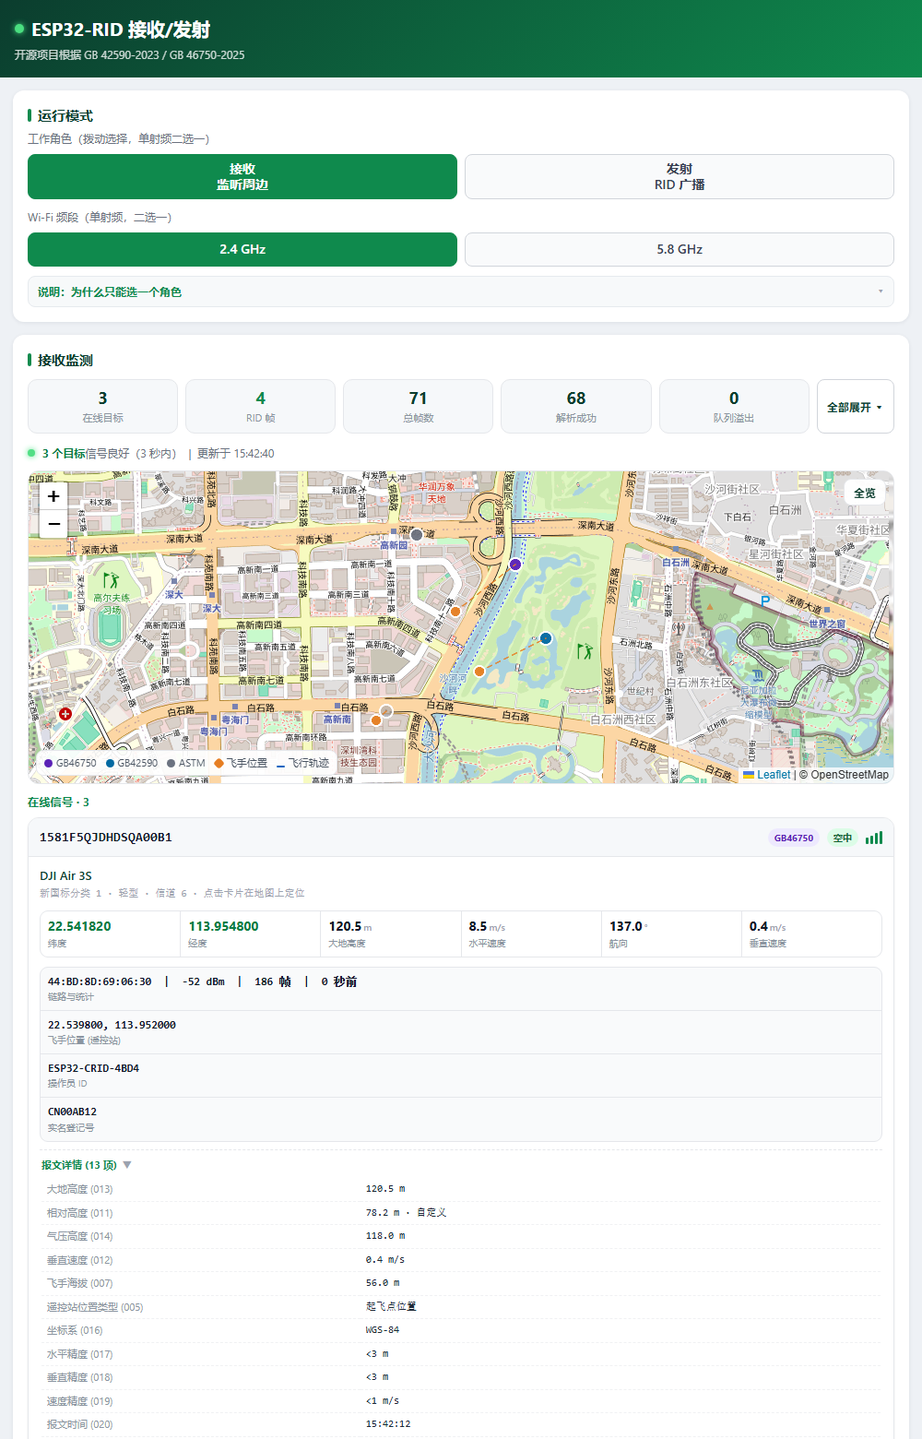
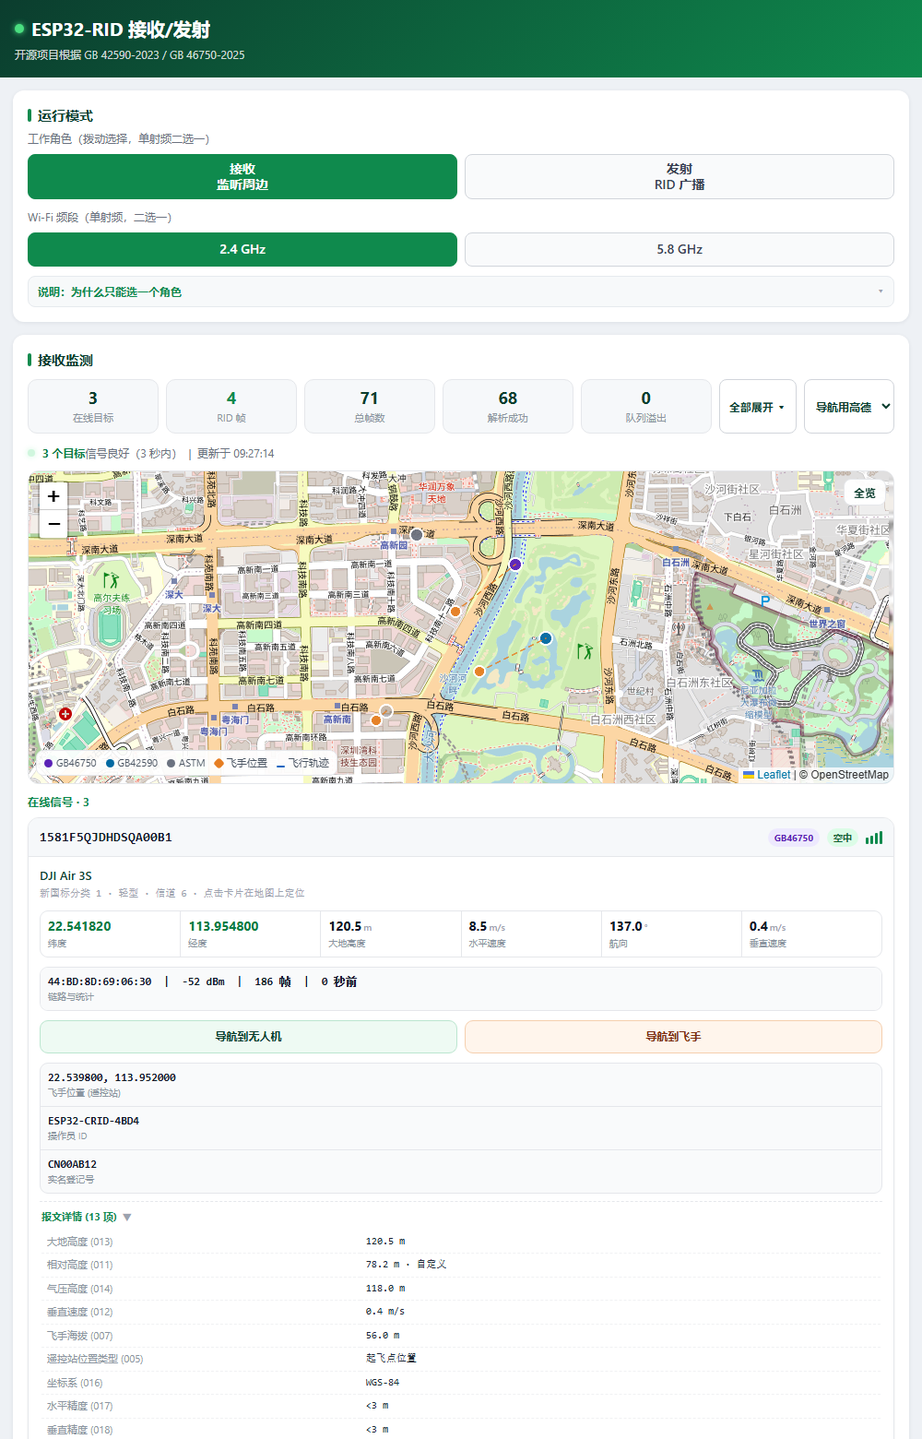
feat(web): 接收卡片增加「导航到无人机 / 飞手」，一键调起手机地图
- 每张接收卡片按目标实际坐标生成导航按钮：无人机位置、飞手（遥控站）
  位置各一个；坐标为 0,0 或未上报时不显示对应按钮
- 面板顶部新增「导航用高德 / 百度」下拉，选择存 localStorage，默认高德
- 高德走 uri.amap.com/navigation（to=经度,纬度,名称，mode=car，callnative=1），
  百度走 api.map.baidu.com/mobile/direction（destination=latlng:纬度,经度，
  mode=driving），两者都显式声明坐标类型为 wgs84
- 不做本地坐标偏移：RID 广播的是 GNSS 原始 WGS-84，由地图端纠偏，
  避免自实现 GCJ-02 算法引入误差
- 导航按钮点击时阻断冒泡，否则会连带触发卡片自身的地图聚焦
- 卡片结构顺带修正：身份/位置区块（飞手位置、操作员 ID、实名登记号）
  为空时不再渲染空边框块

工具与验证
- build.ps1：idf.py 也放开 stderr（Kconfig NOTE 等会被 Stop 当成终止错误，
  表现为「构建实际成功却提前退出」），成败统一看退出码
- extract_bin_page.py 增加导航按钮/地图选择断言
- jsdom_test 增加两种地图 URL 生成、按钮点击、0,0 拒绝的断言
- rx_render_test 增加「有飞手坐标 2 个按钮 / 无则 1 个」断言
- 重制 docs/webui_rx.png

diff --git a/tools/_page.html b/tools/_page.html
@@ -128,6 +128,16 @@ font-variant-numeric:tabular-nums;line-height:1.35}
 .kv .wide{grid-column:span 3;background:#f9fafb}
 .kv .wide b{font-family:ui-monospace,Menlo,Consolas,monospace;font-size:12px;word-break:break-all}
 .kv .hl b{color:#0a7d43}
+.navrow{display:flex;gap:8px;margin-top:10px;flex-wrap:wrap}
+.navbtn{flex:1;min-width:118px;padding:9px 10px;font-size:12px;font-weight:700;
+font-family:inherit;color:#0b3d2e;background:#eefaf3;border:1px solid #bbe6cf;
+border-radius:9px;cursor:pointer;line-height:1.3}
+.navbtn:active{transform:scale(.98);background:#dff5e9}
+.navbtn[data-nav=op]{color:#7c2d12;background:#fff5ec;border-color:#f5cfae}
+.navbtn[data-nav=op]:active{background:#ffe9d5}
+.navsel{flex:none;width:auto;margin-top:0;background:#fff;border:1px solid #d1d5db;
+border-radius:8px;padding:6px 8px;font-size:12px;font-weight:600;color:#0b3d2e;
+font-family:inherit}
 .fbtn{flex:none;background:#fff;border:1px solid #d1d5db;border-radius:8px;
 padding:6px 10px;font-size:12px;color:#0b3d2e;font-weight:600;cursor:pointer}
 .fbtn:active{transform:scale(.97)}
@@ -302,6 +312,8 @@ button.danger:hover{background:#fdf1f0;filter:none}
 <div class='chip'><b id='s_ok'>0</b><span>解析成功</span></div>
 <div class='chip warn' id='s_ovfbox'><b id='s_ovf'>0</b><span>队列溢出</span></div>
 <button class='fbtn' id='foldall' type='button'>全部展开 ▾</button>
+<select class='navsel' id='navmap' title='卡片内导航按钮跳转的地图'>
+<option value='amap'>导航用高德</option><option value='bd'>导航用百度</option></select>
 </div>
 <div class='rxbanner'><span class='dot live'></span>
 <span id='rxstate'>正在监听…</span></div>
@@ -321,7 +333,10 @@ button.danger:hover{background:#fdf1f0;filter:none}
 <details class='tip'><summary>说明：接收列表与离线规则</summary><div>
 监听信道跟随上方「Wi-Fi 信道」设置（保存后生效），只能收到与本机同信道的广播。
 卡片按信号强度排序，<b>绿色标题</b>为机型/描述，<b>格内小字</b>为字段名；
-10 秒无信号标记为已离线（灰度显示，保留 30 分钟），列表 2 秒刷新。</div></details>
+10 秒无信号标记为已离线（灰度显示，保留 30 分钟），列表 2 秒刷新。
+<br>卡片内「导航到无人机 / 导航到飞手」按钮会带着该点坐标跳转到手机地图 App
+（面板顶部「导航用高德 / 百度」可切换），坐标按 WGS-84 原始值传递，由地图自行纠偏；
+手机需能访问互联网，未装地图 App 时会打开对应的网页版。</div></details>
 </div>
 <div class='actions span2'>
 <button onclick='save()'>保存并应用</button>
@@ -561,6 +576,30 @@ function cell(v,unit,label,cls){
 return `<div class="${cls||''}"><b>${v}${unit?`<small>${unit}</small>`:''}</b><span>${label}</span></div>`;}
 function wideCell(v,label){
 return `<div class="wide"><b>${v}</b><span>${label}</span></div>`;}
+function posOk(la,lo){la=Number(la);lo=Number(lo);
+return isFinite(la)&&isFinite(lo)&&Math.abs(la)<=90&&Math.abs(lo)<=180
+&&!(Math.abs(la)<1e-6&&Math.abs(lo)<1e-6);}
+function navProvider(){const s=q('navmap');try{
+const v=s&&s.value?s.value:(localStorage.getItem('crid_navmap')||'amap');
+return v==='bd'?'bd':'amap';}catch(e){return (s&&s.value==='bd')?'bd':'amap';}}
+function navUrl(kind,la,lo,nm){
+la=Number(la);lo=Number(lo);
+const tag=(kind==='op')?'飞手':'无人机';
+const name=((nm?nm+' ':'')+tag).slice(0,40);
+if(navProvider()==='bd'){
+return 'https://api.map.baidu.com/mobile/direction?destination=latlng:'
++la.toFixed(6)+','+lo.toFixed(6)+'|name:'+encodeURIComponent(name)
++'&mode=driving&output=html&coord_type=wgs84&src=webapp.crid.nav';}
+return 'https://uri.amap.com/navigation?to='+lo.toFixed(6)+','+la.toFixed(6)+','
++encodeURIComponent(name)+'&mode=car&policy=1&coordinate=wgs84&src=crid&callnative=1';}
+function navTo(kind,la,lo,nm){
+if(!posOk(la,lo)){msg('该目标暂未上报有效坐标，无法导航',false);return;}
+try{location.href=navUrl(kind,la,lo,nm);}catch(e){msg('无法唤起地图：'+e,false);}}
+function navBtn(kind,la,lo,nm){
+const tag=(kind==='op')?'飞手':'无人机';
+return '<button type="button" class="navbtn" data-nav="'+kind+'"'
++' data-la="'+Number(la).toFixed(6)+'" data-lo="'+Number(lo).toFixed(6)+'"'
++' data-nm="'+esc(nm||'')+'">导航到'+tag+'</button>';}
 const OPT=['实时位置','起飞点位置','自定义位置','未知'];
 const AGLT=['起飞点','地面','自定义','实时 GNSS'];
 const HACC=['未知','<18.5 km','<7.4 km','<3.7 km','<1.85 km','<926 m','<556 m','<185 m',
@@ -640,16 +679,27 @@ h+=`<div class="kv">`
 +cell(f1(t.speed_vertical),'m/s','垂直速度')
 +`</div><div class="kv">`
 +wideCell(`${esc(t.mac)} &nbsp;|&nbsp; ${t.rssi} dBm &nbsp;|&nbsp; ${t.msg_count} 帧 &nbsp;|&nbsp; ${ageTxt(t.age_ms)}`,'链路与统计');
+let nb='';
+if(posOk(t.latitude,t.longitude))nb+=navBtn('drone',t.latitude,t.longitude,t.uas_id);
+if(t.has_op_loc&&posOk(t.op_latitude,t.op_longitude))
+nb+=navBtn('op',t.op_latitude,t.op_longitude,t.uas_id);
+h+='</div>';
+if(nb)h+='<div class="navrow">'+nb+'</div>';
 const idt=[];
 if(t.has_op_loc)idt.push([f6(t.op_latitude)+', '+f6(t.op_longitude),'飞手位置 (遥控站)']);
 if(t.operator_id)idt.push([esc(t.operator_id),'操作员 ID']);
 if(t.realname_id)idt.push([esc(t.realname_id),'实名登记号']);
+if(idt.length){h+='<div class="kv">';
 idt.forEach(function(x){h+=wideCell(x[0],x[1]);});
-h+='</div>'+dtlHtml(t)+'</div>';
+h+='</div>';}
+h+=dtlHtml(t)+'</div>';
 el.innerHTML=h;
 const dh=el.querySelector('.dtl-h');
 if(dh){dh.onclick=function(ev){ev.stopPropagation();
 el.classList.toggle('open');s_fold[t.mac]=el.classList.contains('open');updFoldBtn();};}
+Array.prototype.forEach.call(el.querySelectorAll('.navbtn'),function(b){
+b.onclick=function(ev){ev.stopPropagation();
+navTo(b.dataset.nav,b.dataset.la,b.dataset.lo,b.dataset.nm);};});
 el.onclick=function(){try{if(window.RXMAP)RXMAP.focus(t.mac);}catch(e){}};
 return el;}
 
@@ -688,6 +738,9 @@ if(s_fold[c.dataset.mac])c.classList.add('open');});
 updFoldBtn();
 }catch(e){q('rxstate').textContent='轮询失败：'+e;}}
 q('foldall').onclick=foldAll;
+try{const nmSel=q('navmap');if(nmSel){
+const sv=localStorage.getItem('crid_navmap');if(sv==='bd'||sv==='amap')nmSel.value=sv;
+nmSel.onchange=function(){try{localStorage.setItem('crid_navmap',nmSel.value);}catch(e){}};}}catch(e){}
 let gbase=[0,0],gpick=null;
 function dotIcon(c){return L.divIcon({className:'',
 html:'<div style="width:14px;height:14px;border-radius:50%;background:'+c+

diff --git a/tools/_page.js b/tools/_page.js
@@ -227,6 +227,30 @@ function cell(v,unit,label,cls){
 return `<div class="${cls||''}"><b>${v}${unit?`<small>${unit}</small>`:''}</b><span>${label}</span></div>`;}
 function wideCell(v,label){
 return `<div class="wide"><b>${v}</b><span>${label}</span></div>`;}
+function posOk(la,lo){la=Number(la);lo=Number(lo);
+return isFinite(la)&&isFinite(lo)&&Math.abs(la)<=90&&Math.abs(lo)<=180
+&&!(Math.abs(la)<1e-6&&Math.abs(lo)<1e-6);}
+function navProvider(){const s=q('navmap');try{
+const v=s&&s.value?s.value:(localStorage.getItem('crid_navmap')||'amap');
+return v==='bd'?'bd':'amap';}catch(e){return (s&&s.value==='bd')?'bd':'amap';}}
+function navUrl(kind,la,lo,nm){
+la=Number(la);lo=Number(lo);
+const tag=(kind==='op')?'飞手':'无人机';
+const name=((nm?nm+' ':'')+tag).slice(0,40);
+if(navProvider()==='bd'){
+return 'https://api.map.baidu.com/mobile/direction?destination=latlng:'
++la.toFixed(6)+','+lo.toFixed(6)+'|name:'+encodeURIComponent(name)
++'&mode=driving&output=html&coord_type=wgs84&src=webapp.crid.nav';}
+return 'https://uri.amap.com/navigation?to='+lo.toFixed(6)+','+la.toFixed(6)+','
++encodeURIComponent(name)+'&mode=car&policy=1&coordinate=wgs84&src=crid&callnative=1';}
+function navTo(kind,la,lo,nm){
+if(!posOk(la,lo)){msg('该目标暂未上报有效坐标，无法导航',false);return;}
+try{location.href=navUrl(kind,la,lo,nm);}catch(e){msg('无法唤起地图：'+e,false);}}
+function navBtn(kind,la,lo,nm){
+const tag=(kind==='op')?'飞手':'无人机';
+return '<button type="button" class="navbtn" data-nav="'+kind+'"'
++' data-la="'+Number(la).toFixed(6)+'" data-lo="'+Number(lo).toFixed(6)+'"'
++' data-nm="'+esc(nm||'')+'">导航到'+tag+'</button>';}
 const OPT=['实时位置','起飞点位置','自定义位置','未知'];
 const AGLT=['起飞点','地面','自定义','实时 GNSS'];
 const HACC=['未知','<18.5 km','<7.4 km','<3.7 km','<1.85 km','<926 m','<556 m','<185 m',
@@ -306,16 +330,27 @@ h+=`<div class="kv">`
 +cell(f1(t.speed_vertical),'m/s','垂直速度')
 +`</div><div class="kv">`
 +wideCell(`${esc(t.mac)} &nbsp;|&nbsp; ${t.rssi} dBm &nbsp;|&nbsp; ${t.msg_count} 帧 &nbsp;|&nbsp; ${ageTxt(t.age_ms)}`,'链路与统计');
+let nb='';
+if(posOk(t.latitude,t.longitude))nb+=navBtn('drone',t.latitude,t.longitude,t.uas_id);
+if(t.has_op_loc&&posOk(t.op_latitude,t.op_longitude))
+nb+=navBtn('op',t.op_latitude,t.op_longitude,t.uas_id);
+h+='</div>';
+if(nb)h+='<div class="navrow">'+nb+'</div>';
 const idt=[];
 if(t.has_op_loc)idt.push([f6(t.op_latitude)+', '+f6(t.op_longitude),'飞手位置 (遥控站)']);
 if(t.operator_id)idt.push([esc(t.operator_id),'操作员 ID']);
 if(t.realname_id)idt.push([esc(t.realname_id),'实名登记号']);
+if(idt.length){h+='<div class="kv">';
 idt.forEach(function(x){h+=wideCell(x[0],x[1]);});
-h+='</div>'+dtlHtml(t)+'</div>';
+h+='</div>';}
+h+=dtlHtml(t)+'</div>';
 el.innerHTML=h;
 const dh=el.querySelector('.dtl-h');
 if(dh){dh.onclick=function(ev){ev.stopPropagation();
 el.classList.toggle('open');s_fold[t.mac]=el.classList.contains('open');updFoldBtn();};}
+Array.prototype.forEach.call(el.querySelectorAll('.navbtn'),function(b){
+b.onclick=function(ev){ev.stopPropagation();
+navTo(b.dataset.nav,b.dataset.la,b.dataset.lo,b.dataset.nm);};});
 el.onclick=function(){try{if(window.RXMAP)RXMAP.focus(t.mac);}catch(e){}};
 return el;}
 
@@ -354,6 +389,9 @@ if(s_fold[c.dataset.mac])c.classList.add('open');});
 updFoldBtn();
 }catch(e){q('rxstate').textContent='轮询失败：'+e;}}
 q('foldall').onclick=foldAll;
+try{const nmSel=q('navmap');if(nmSel){
+const sv=localStorage.getItem('crid_navmap');if(sv==='bd'||sv==='amap')nmSel.value=sv;
+nmSel.onchange=function(){try{localStorage.setItem('crid_navmap',nmSel.value);}catch(e){}};}}catch(e){}
 let gbase=[0,0],gpick=null;
 function dotIcon(c){return L.divIcon({className:'',
 html:'<div style="width:14px;height:14px;border-radius:50%;background:'+c+

diff --git a/tools/jsdom_test.js b/tools/jsdom_test.js
@@ -104,6 +104,43 @@ const sleep = (ms) => new Promise(r => setTimeout(r, ms));
     if (txCards !== 'none') console.log('ROLE SWITCH FAIL (tx cards still visible)');
   } catch (e) { console.log('rx role THREW:', e.message); }
 
+  // 导航按钮：按目标实际坐标给出「导航到无人机 / 导航到飞手」，跳手机地图 App
+  try {
+    const btns = w.document.querySelectorAll('#rxlist .navbtn');
+    const kinds = Array.prototype.map.call(btns, b => b.dataset.nav);
+    console.log('nav buttons:', btns.length, JSON.stringify(kinds), '(expect 2: drone,op)');
+    if (btns.length !== 2 || kinds.join(',') !== 'drone,op') console.log('NAV BTN FAIL');
+
+    // 默认高德：to=经度,纬度,名称，并声明坐标为 wgs84
+    const ua = w.navUrl('drone', 22.54, 114.05, 'TEST');
+    console.log('amap url:', ua);
+    if (!/^https:\/\/uri\.amap\.com\/navigation\?to=114\.050000,22\.540000,/.test(ua)
+        || !/coordinate=wgs84/.test(ua) || !/callnative=1/.test(ua)) console.log('NAV AMAP URL FAIL');
+
+    // 切百度：destination=latlng:纬度,经度，coord_type=wgs84
+    const sel = w.document.getElementById('navmap');
+    sel.value = 'bd';
+    sel.dispatchEvent(new w.Event('change', { bubbles: true }));
+    const ub = w.navUrl('op', 22.53, 114.04, 'TEST');
+    console.log('baidu url:', ub);
+    if (!/api\.map\.baidu\.com/.test(ub) || !/latlng:22\.530000,114\.040000/.test(ub)
+        || !/coord_type=wgs84/.test(ub)) console.log('NAV BAIDU URL FAIL');
+    sel.value = 'amap';
+    sel.dispatchEvent(new w.Event('change', { bubbles: true }));
+
+    // 点击按钮只调 navTo，不得冒泡触发卡片的地图聚焦
+    let hit = null;
+    const orig = w.navTo;
+    w.navTo = (k, la, lo, nm) => { hit = [k, la, lo, nm]; };
+    btns[0].onclick({ stopPropagation() {}, target: btns[0] });
+    console.log('nav click ->', JSON.stringify(hit));
+    if (!hit || hit[0] !== 'drone') console.log('NAV CLICK FAIL');
+    w.navTo = orig;
+
+    // 未上报坐标（0,0）必须拒绝导航
+    if (w.posOk(0, 0) || !w.posOk(22.54, 114.05)) console.log('NAV POSOK FAIL');
+  } catch (e) { console.log('nav check THREW:', e.message); }
+
   // 模拟：切到 5.8G 频段（单射频互斥，信道应自动锁到 149 并禁用输入）
   try {
     const b5 = w.document.querySelector('input[name=band][value="1"]');

diff --git a/tools/rx_render_test.js b/tools/rx_render_test.js
@@ -106,6 +106,14 @@ api.pollRx().then(() => {
   A('detail acc/ts : ' + (c1._html.includes('水平精度 (017)') && c1._html.includes('<3 m')
     && c1._html.includes('报文时间 (020)') && c1._html.includes('飞手海拔 (007)') ? 'OK' : 'FAIL'));
   A('no op on card2 : ' + (!store.rxlist.children[2]._html.includes('飞手位置') ? 'OK' : 'FAIL'));
+  // ---- 导航按钮：有飞手坐标给 2 个，没有则只给「导航到无人机」 ----
+  const navN = (h) => (h.match(/class="navbtn"/g) || []).length;
+  A('nav btns card1 : ' + (navN(c1._html) === 2 && c1._html.includes('导航到飞手')
+    && c1._html.includes('data-la="22.530001"') ? 'OK' : 'FAIL')
+    + ' (' + navN(c1._html) + ' 个)');
+  A('nav btns card2 : ' + (navN(store.rxlist.children[2]._html) === 1
+    && !store.rxlist.children[2]._html.includes('导航到飞手') ? 'OK' : 'FAIL')
+    + ' (' + navN(store.rxlist.children[2]._html) + ' 个)');
   A('online no gray : ' + (!store.rxlist.children[1].className.includes('off') ? 'OK' : 'FAIL'));
   // ---- 目标 2 转为离线：应有「已离线」分区 + 灰度卡片 ----
   FAKE.tracks[1].active = false;

diff --git a/main/crid_web.c b/main/crid_web.c
@@ -166,6 +166,17 @@ static const char PAGE_HTML[] =
 ".kv .wide{grid-column:span 3;background:#f9fafb}"
 ".kv .wide b{font-family:ui-monospace,Menlo,Consolas,monospace;font-size:12px;word-break:break-all}"
 ".kv .hl b{color:#0a7d43}"
+// ---- 导航按钮：跳转手机地图 App（高德/百度），点卡片自身仍做地图聚焦 ----
+".navrow{display:flex;gap:8px;margin-top:10px;flex-wrap:wrap}"
+".navbtn{flex:1;min-width:118px;padding:9px 10px;font-size:12px;font-weight:700;"
+"font-family:inherit;color:#0b3d2e;background:#eefaf3;border:1px solid #bbe6cf;"
+"border-radius:9px;cursor:pointer;line-height:1.3}"
+".navbtn:active{transform:scale(.98);background:#dff5e9}"
+".navbtn[data-nav=op]{color:#7c2d12;background:#fff5ec;border-color:#f5cfae}"
+".navbtn[data-nav=op]:active{background:#ffe9d5}"
+".navsel{flex:none;width:auto;margin-top:0;background:#fff;border:1px solid #d1d5db;"
+"border-radius:8px;padding:6px 8px;font-size:12px;font-weight:600;color:#0b3d2e;"
+"font-family:inherit}"
 // ---- 报文详情折叠区与一键展开/折叠按钮 ----
 ".fbtn{flex:none;background:#fff;border:1px solid #d1d5db;border-radius:8px;"
 "padding:6px 10px;font-size:12px;color:#0b3d2e;font-weight:600;cursor:pointer}"
@@ -345,6 +356,9 @@ static const char PAGE_HTML[] =
 "<div class='chip'><b id='s_ok'>0</b><span>解析成功</span></div>"
 "<div class='chip warn' id='s_ovfbox'><b id='s_ovf'>0</b><span>队列溢出</span></div>"
 "<button class='fbtn' id='foldall' type='button'>全部展开 ▾</button>"
+// 导航地图选择：卡片内导航按钮按此跳转，选择存 localStorage，默认高德
+"<select class='navsel' id='navmap' title='卡片内导航按钮跳转的地图'>"
+"<option value='amap'>导航用高德</option><option value='bd'>导航用百度</option></select>"
 "</div>"
 "<div class='rxbanner'><span class='dot live'></span>"
 "<span id='rxstate'>正在监听…</span></div>"
@@ -366,7 +380,10 @@ static const char PAGE_HTML[] =
 "<details class='tip'><summary>说明：接收列表与离线规则</summary><div>"
 "监听信道跟随上方「Wi-Fi 信道」设置（保存后生效），只能收到与本机同信道的广播。"
 "卡片按信号强度排序，<b>绿色标题</b>为机型/描述，<b>格内小字</b>为字段名；"
-"10 秒无信号标记为已离线（灰度显示，保留 30 分钟），列表 2 秒刷新。</div></details>"
+"10 秒无信号标记为已离线（灰度显示，保留 30 分钟），列表 2 秒刷新。"
+"<br>卡片内「导航到无人机 / 导航到飞手」按钮会带着该点坐标跳转到手机地图 App"
+"（面板顶部「导航用高德 / 百度」可切换），坐标按 WGS-84 原始值传递，由地图自行纠偏；"
+"手机需能访问互联网，未装地图 App 时会打开对应的网页版。</div></details>"
 "</div>"
 "<div class='actions span2'>"
 "<button onclick='save()'>保存并应用</button>"
@@ -629,6 +646,33 @@ static const char PAGE_HTML[] =
 "return `<div class=\"${cls||''}\"><b>${v}${unit?`<small>${unit}</small>`:''}</b><span>${label}</span></div>`;}"
 "function wideCell(v,label){"
 "return `<div class=\"wide\"><b>${v}</b><span>${label}</span></div>`;}"
+// ---- 导航到目标位置：调起手机地图 App（高德 / 百度），坐标按 WGS-84 原样传递 ----
+// RID 广播的经纬度是 GNSS 原始坐标（WGS-84）。高德 coordinate=wgs84、百度 coord_type=wgs84
+// 都由地图端自行纠偏到 GCJ-02，因此页面不做坐标转换，避免自实现偏移算法引入误差。
+"function posOk(la,lo){la=Number(la);lo=Number(lo);"
+"return isFinite(la)&&isFinite(lo)&&Math.abs(la)<=90&&Math.abs(lo)<=180"
+"&&!(Math.abs(la)<1e-6&&Math.abs(lo)<1e-6);}"   // 0,0 视为未上报
+"function navProvider(){const s=q('navmap');try{"
+"const v=s&&s.value?s.value:(localStorage.getItem('crid_navmap')||'amap');"
+"return v==='bd'?'bd':'amap';}catch(e){return (s&&s.value==='bd')?'bd':'amap';}}"
+"function navUrl(kind,la,lo,nm){"
+"la=Number(la);lo=Number(lo);"
+"const tag=(kind==='op')?'飞手':'无人机';"
+"const name=((nm?nm+' ':'')+tag).slice(0,40);"
+"if(navProvider()==='bd'){"
+"return 'https://api.map.baidu.com/mobile/direction?destination=latlng:'"
+"+la.toFixed(6)+','+lo.toFixed(6)+'|name:'+encodeURIComponent(name)"
+"+'&mode=driving&output=html&coord_type=wgs84&src=webapp.crid.nav';}"
+"return 'https://uri.amap.com/navigation?to='+lo.toFixed(6)+','+la.toFixed(6)+','"
+"+encodeURIComponent(name)+'&mode=car&policy=1&coordinate=wgs84&src=crid&callnative=1';}"
+"function navTo(kind,la,lo,nm){"
+"if(!posOk(la,lo)){msg('该目标暂未上报有效坐标，无法导航',false);return;}"
+"try{location.href=navUrl(kind,la,lo,nm);}catch(e){msg('无法唤起地图：'+e,false);}}"
+"function navBtn(kind,la,lo,nm){"
+"const tag=(kind==='op')?'飞手':'无人机';"
+"return '<button type=\"button\" class=\"navbtn\" data-nav=\"'+kind+'\"'"
+"+' data-la=\"'+Number(la).toFixed(6)+'\" data-lo=\"'+Number(lo).toFixed(6)+'\"'"
+"+' data-nm=\"'+esc(nm||'')+'\">导航到'+tag+'</button>';}"
 // ---- 报文详情折叠：枚举值文本表（国标与 ASTM 兼容枚举） ----
 "const OPT=['实时位置','起飞点位置','自定义位置','未知'];"
 "const AGLT=['起飞点','地面','自定义','实时 GNSS'];"
@@ -712,17 +756,30 @@ static const char PAGE_HTML[] =
 "+cell(f1(t.speed_vertical),'m/s','垂直速度')"
 "+`</div><div class=\"kv\">`"
 "+wideCell(`${esc(t.mac)} &nbsp;|&nbsp; ${t.rssi} dBm &nbsp;|&nbsp; ${t.msg_count} 帧 &nbsp;|&nbsp; ${ageTxt(t.age_ms)}`,'链路与统计');"
+// 导航按钮：分别导航到无人机当前位置 / 飞手（遥控站）位置，无有效坐标则不显示
+"let nb='';"
+"if(posOk(t.latitude,t.longitude))nb+=navBtn('drone',t.latitude,t.longitude,t.uas_id);"
+"if(t.has_op_loc&&posOk(t.op_latitude,t.op_longitude))"
+"nb+=navBtn('op',t.op_latitude,t.op_longitude,t.uas_id);"
+"h+='</div>';"                                   // 关闭「链路与统计」区块
+"if(nb)h+='<div class=\"navrow\">'+nb+'</div>';"
 "const idt=[];"
 "if(t.has_op_loc)idt.push([f6(t.op_latitude)+', '+f6(t.op_longitude),'飞手位置 (遥控站)']);"
 "if(t.operator_id)idt.push([esc(t.operator_id),'操作员 ID']);"
 "if(t.realname_id)idt.push([esc(t.realname_id),'实名登记号']);"
+"if(idt.length){h+='<div class=\"kv\">';"          // 身份/位置区块：无内容则整块不渲染
 "idt.forEach(function(x){h+=wideCell(x[0],x[1]);});"
-"h+='</div>'+dtlHtml(t)+'</div>';"
+"h+='</div>';}"
+"h+=dtlHtml(t)+'</div>';"
 "el.innerHTML=h;"
 // 折叠头点击：切换展开态（阻断冒泡，不触发卡片本身的地图聚焦）
 "const dh=el.querySelector('.dtl-h');"
 "if(dh){dh.onclick=function(ev){ev.stopPropagation();"
 "el.classList.toggle('open');s_fold[t.mac]=el.classList.contains('open');updFoldBtn();};}"
+// 导航按钮：必须阻断冒泡，否则会连带触发下面卡片的地图聚焦
+"Array.prototype.forEach.call(el.querySelectorAll('.navbtn'),function(b){"
+"b.onclick=function(ev){ev.stopPropagation();"
+"navTo(b.dataset.nav,b.dataset.la,b.dataset.lo,b.dataset.nm);};});"
 // 点击卡片聚焦地图：仅调用已加载的独立模块，未加载或报错都不影响卡片本身
 "el.onclick=function(){try{if(window.RXMAP)RXMAP.focus(t.mac);}catch(e){}};"
 "return el;}"
@@ -765,6 +822,10 @@ static const char PAGE_HTML[] =
 "updFoldBtn();"
 "}catch(e){q('rxstate').textContent='轮询失败：'+e;}}"
 "q('foldall').onclick=foldAll;"
+// 导航地图：恢复上次选择（localStorage 不可用时静默降级为高德）
+"try{const nmSel=q('navmap');if(nmSel){"
+"const sv=localStorage.getItem('crid_navmap');if(sv==='bd'||sv==='amap')nmSel.value=sv;"
+"nmSel.onchange=function(){try{localStorage.setItem('crid_navmap',nmSel.value);}catch(e){}};}}catch(e){}"
 // ---- 在线地图（Leaflet）与离线网格双模式 ----
 // map/opMarker/circle 等变量已在脚本开头统一声明
 "let gbase=[0,0],gpick=null;"

diff --git a/tools/extract_bin_page.py b/tools/extract_bin_page.py
@@ -45,6 +45,10 @@ else:
         "角色拨动开关在": "name='role'" in page and "name='tx_en'" not in page,
         # 说明信息默认折叠（details 无 open 属性）
         "说明默认折叠": page.count("details class='tip'") >= 4,
+        # 接收卡片导航按钮（跳手机地图 App）与地图选择下拉都在
+        "导航按钮在": "class=\\\"navbtn\\\"" in page or 'class="navbtn"' in page,
+        "导航地图选择在": "id='navmap'" in page and "uri.amap.com" in page
+                          and "api.map.baidu.com" in page,
     }.items():
         print(("OK   " if cond else "FAIL ") + name)
         ok = ok and cond

diff --git a/README.md b/README.md
@@ -38,6 +38,7 @@ S3 固件不显示 5.8 GHz 选项）：
 - **双地图三态渲染**：联网时 Leaflet + OSM 地图；CDN 不可达或无互联网时自动降级为 canvas 离线网格底图（比例尺按目标包围盒自适应 1/2/5 档位）；完全无信号时显示空态提示
 - **目标航迹**：每架无人机的历史位置绘制为地图轨迹线（在线实线、离线灰虚线），离线网格模式下同步绘制折线
 - **飞手位置解析**：GB 46750 数据项 005/006/007 与 GB 42590 System 消息中的操作员坐标均可解析显示
+- **一键导航**：卡片内「导航到无人机 / 导航到飞手」按钮，点击直接调起手机上的高德或百度地图并规划驾车路线（面板顶部可切换地图）；坐标按 GNSS 原始 WGS-84 传递，由地图端自行纠偏，不做本地加密偏移；无有效坐标的目标不显示按钮
 - **频段跟随**：监听频段与信道跟随网页设置（C5 可切 5.8 GHz 监听），换信道/换频段前会先停掉混杂监听，避免驱动报错
 
 ### 网页与传输
